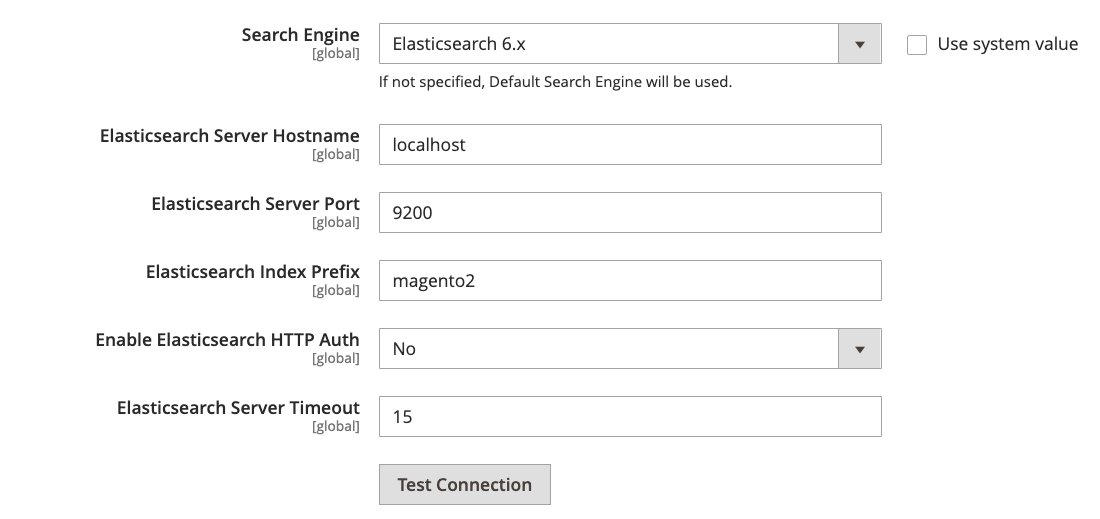
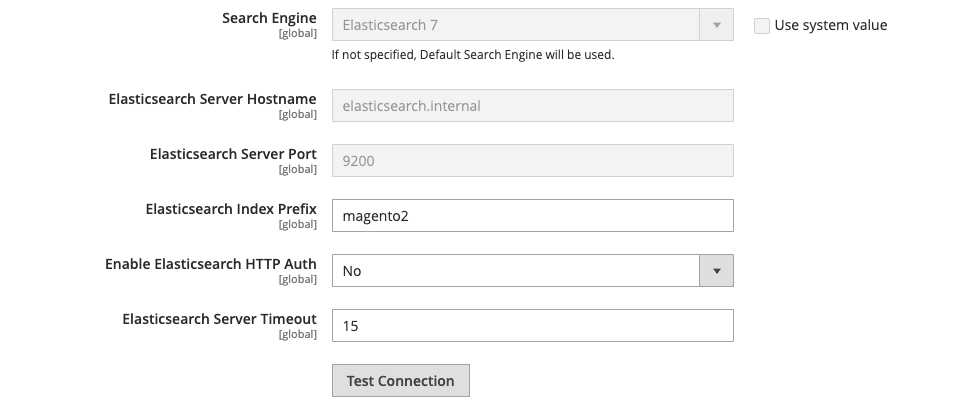
Elasticsearch (#585)
* Catalog Search Config screenshot

Updated Catalog Search configuration screenshot.

* search engine config screenshot

Updated sceenshot.

* Updated Catalog Search configuration

Updated screenshot and field descriptions.

* Updated Elasticsearch config  instructions

Removed references to previous versions no longer supported; updated screenshots.

* Removed link to end of life dates

Removed link to Elasticsearch end of life dates.

diff --git a/src/catalog/search-configuration.md b/src/catalog/search-configuration.md
@@ -6,7 +6,7 @@ redirect_from:
   - /catalog/search-elasticsearch.html
 ---
 
-Elasticsearch is a powerful and highly scalable distributed search engine that is used by many industry leaders with high-volume sites. The implementation of Elasticsearch includes both search suggestions and recommendations. As of Magento 2.4.0, it is the default search engine for all installations. For installation instructions, see [Set up Elasticsearch service][1]{:target="_blank"} in our developer documentation.
+Elasticsearch is a powerful and highly scalable distributed search engine that is used by many industry leaders with high-volume sites. The implementation of Elasticsearch includes both search suggestions and recommendations. As of Magento 2.4.0, Elasticsearch 7.6.x is required for all installations. For installation instructions, see [Set up Elasticsearch service][1]{:target="_blank"} in our developer documentation.
 
 ## Step 1: Configure general search options
 
@@ -17,12 +17,12 @@ Elasticsearch is a powerful and highly scalable distributed search engine that i
 1. Expand ![]({% link images/images/btn-expand.png %}) the _Catalog Search_ section.
 
    ![]({% link images/images/config-catalog-catalog-search-elasticsearch-1.png %}){: .zoom}
-   _Elasticsearch Settings_
+   [_Elasticsearch Settings_]({% link configuration/catalog/catalog.md %})
 
 1. To limit the length and word count of search query text, set a value for **Minimal Query Length** and **Maximum Query Length**.
 
    {:.bs-callout-info}
-   **Important:** The value set for this minimum and maximum range must be compatible with the corresponding range set in your Elasticsearch search engine configurations. For example, if you set these values to `2` and `300` in Magento, update the corresponding values in your search engine.
+   **Important:** The value set for this minimum and maximum range must be compatible with the corresponding range set in your Elasticsearch search engine configuration. For example, if you set these values to `2` and `300` in Magento, update the corresponding values in your search engine.
 
 1. To limit the amount of popular search results to cache for faster responses, set an amount for **Number of top search results to cache**.
 
@@ -30,7 +30,7 @@ Elasticsearch is a powerful and highly scalable distributed search engine that i
 
 1. If you want to enable or disable the Product EAV indexer, set the **Enable EAV Indexer**.
 
-   This feature improves indexation speed and restricts the indexer from use by third-party extensions. This option only available for Elasticsearch or Elasticsearch 5.x Search Engines.
+   This feature improves indexation speed and restricts the indexer from use by third-party extensions. 
 
 1. To limit the maximum number of search results to display for search autocomplete, set an amount for **Autocomplete Limit**.
 
@@ -38,23 +38,23 @@ Elasticsearch is a powerful and highly scalable distributed search engine that i
 
 ## Step 2: Configure the Elasticsearch connection
 
- For the best performance and enhanced security, we recommend that you use the latest version of Elasticsearch that Magento supports. See [Elastic Product End of Life Dates](https://www.elastic.co/support/eol){:target="_blank"}.
-
 {:.bs-callout-info}
 The **Search Engine**, **Elasticsearch Server Hostname**, **Elasticsearch Server Port**, **Elasticsearch Index Prefix**, **Enable Elasticsearch HTTP Auth**, and **Elasticsearch Server Timeout** fields were configured when Magento was installed or upgraded. These values should only be changed when upgrading or modifying Elasticsearch.
 
 ![]({% link images/images/config-catalog-catalog-search-elasticsearch-2.png %}){: .zoom}
-_Elasticsearch Connection Settings_
+[_Elasticsearch Connection Settings_]({% link configuration/catalog/catalog.md %})
 
-1. For **Search Engine**, deselect the **Use system value** checkbox and choose the version that is installed on your server.
+1. For **Search Engine**, accept the default value `Elasticsearch 7`.
 
-1. Enter the **Elasticsearch Server Hostname**.
+   Elasticsearch 7.6.x is required for all Magento installations.
 
-   The default value is `localhost`.
+1. For **Elasticsearch Server Hostname**, accept the default value that was configured when Magento was installed.
 
-1. Enter the **Elasticsearch Server Port**.
+   In this example, the default value is `elasticsearch.internal`.
 
-   The default value is `9200`.
+1. For **Elasticsearch Server Port**, accept the default value that was configured when Magento was installed.
+
+   In this example, the default value is `9200`.
 
 1. For **Elasticsearch Index Prefix**, enter a prefix to identify the Elasticsearch index.
 
@@ -82,7 +82,7 @@ Search suggestions and recommendations can impact server performance.
 1. Set **Enable Search Suggestions** to `Yes` and do the following:
 
    ![]({% link images/images/config-catalog-catalog-search-elasticsearch-3.png %}){: .zoom}
-   _Elasticsearch Suggestion and Recommendation Settings_
+   [_Elasticsearch Suggestion and Recommendation Settings_]({% link configuration/catalog/catalog.md %})
 
    - For **Search Suggestions Count**, enter the number of search suggestions to offer.
 

diff --git a/src/configuration/catalog/catalog.md b/src/configuration/catalog/catalog.md
@@ -184,8 +184,8 @@ Magento supports several versions of Elasticsearch.
 |Number of top search results to cache|Store View|The number of popular search terms and results to cache for faster responses. Entering a value of `0` caches all search terms and results when entered a second time. Default value: 100|
 |Enable EAV Indexer|Global|Determines if you want to enable or disable the Product EAV indexer. This feature improves indexation speed and restricts the indexer from use by 3rd party extensions. This option only displays for Elasticsearch or Elasticsearch 5.0+ Search Engines. Default Option: Yes for enabled|
 |Autocomplete Limit|Store View|The maximum number of search queries to display below the search field for search autocomplete. Restricting this amount increases performance of searches and reduces the displayed list size. Default value: 8|
-|Search Engine|Global|Identifies the search engine used to process requests for catalog data. Options: <br/> **Elasticsearch** - (Deprecated) Elasticsearch 5.0+ has reached end of life. To learn more, see [Elastic Product End of Life Dates](https://www.elastic.co/support/eol). <br/>**Elasticsearch 6.x+** - Most versions of Elasticsearch 6.x are scheduled for end of life. To learn more, see [Elastic Product End of Life Dates](https://www.elastic.co/support/eol). <br/>**Elasticsearch 7.0+** - (Recommended) For the best performance, we recommend that you use the latest version of Elasticsearch 7.0+ <br/>_**Note:**_ To learn more about using downlevel Elasticsearch versions, see [Change the Elasticsearch Client](https://devdocs.magento.com/guides/v2.4/config-guide/elasticsearch/es-downgrade.html).|
-|Elasticsearch Server Hostname|Global|Specifies the name of the Elasticsearch server. Default value: `localhost`|
+|Search Engine|Global|Identifies the search engine required to process requests for catalog data. Elasticsearch 7.6.x is required for all Magento installations. Option: Elasticsearch 7|
+|Elasticsearch Server Hostname|Global|Specifies the name of the Elasticsearch server. Default value: `elasticsearch.internal`|
 |Elasticsearch Server Port|Global|Specifies the number of the server port used by Elasticsearch. Default value: `9200`|
 |Elasticsearch Index Prefix|Global|Assigns a prefix to identify the Elasticsearch index. Default value: `magento2`|
 |Enable Elasticsearch HTTP Auth|Global|If enabled, uses HTTP authentication to prompt for a username and password before accessing Elasticsearch Server. Options: Yes / No|
